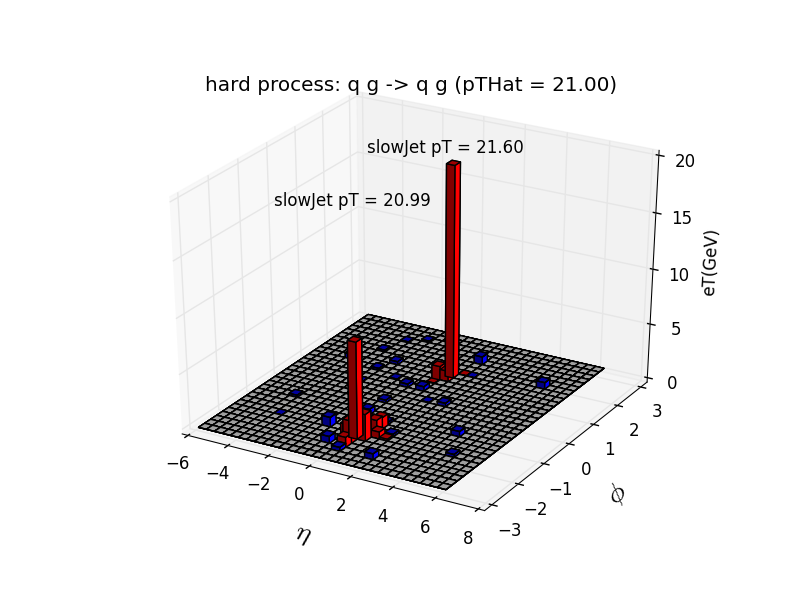
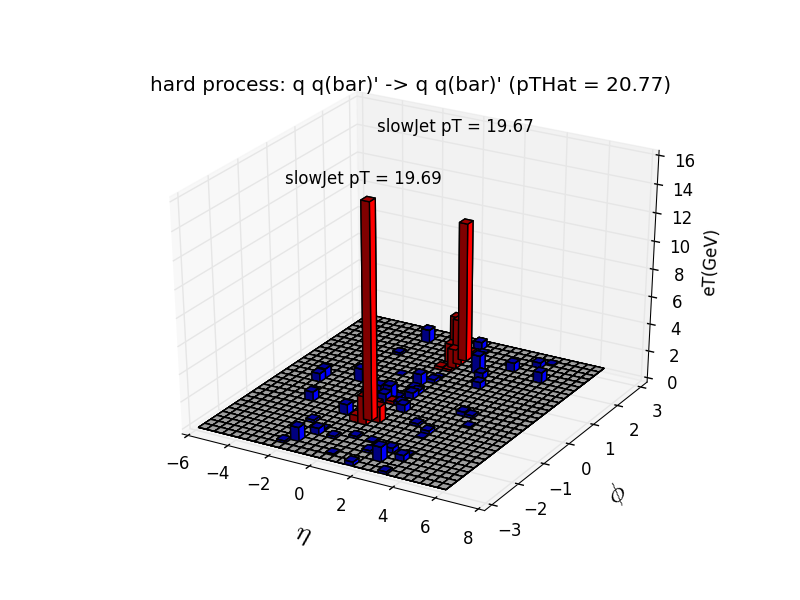
added image files to report

diff --git a/pydir/2d_hist_jetplot_wcol.py b/pydir/2d_hist_jetplot_wcol.py
@@ -13,6 +13,7 @@ def usage():
     print 'Plots a 2d histogram for pythia p-p events and identifies jets as red with slowJet.'
     print 'Usage: python 2d_hist_jetplot_wcol.py [options]'
     print '   -h, --help      : this message'
+    print '   -o, --col     : create plot without colored jets and labels'
     print '   -e, --eCM     = beam center-of-mass energy (GeV) [200.0]'
     print '   -n, --pTHatMin     = minimum jet pT [20.0]'
     print '   -m, --pTHatMax     = maximum jet pT [25.0]'
@@ -27,8 +28,8 @@ def main():
 
 #   Parse command line and set defaults (see http://docs.python.org/library/getopt.html)
     try:
-        opts, args = getopt.getopt(sys.argv[1:], 'he:n:m:s:cqp:r:b:', \
-              ['help','eCM=','pTHatMin=','pTHatMax=','seed=','QCD','QED','pTjetMin=','radius=','bins='])
+        opts, args = getopt.getopt(sys.argv[1:], 'hoe:n:m:s:cqp:r:b:', \
+              ['help','col','eCM=','pTHatMin=','pTHatMax=','seed=','QCD','QED','pTjetMin=','radius=','bins='])
     except getopt.GetoptError, err:
         print str(err) # will print something like 'option -a not recognized'
         usage()
@@ -43,6 +44,7 @@ def main():
     QED = 'off'
 
     # slowJet settings
+    col = 'on'
     radius = 0.7
     pTjetMin = 10.
 
@@ -52,6 +54,8 @@ def main():
         if o in ('-h', '--help'):
             usage()
             sys.exit()
+        elif o in ('-o', '--col'):
+            col = 'off'
         elif o in ('-e', '--eCM'):
             eCM = float(a)
         elif o in ('-n', '--pTHatMin'):
@@ -187,19 +191,34 @@ def main():
 
 #   Create an array of colors where bars associated with jet particles are red
 #   Background bars are blue and bars with no value are white
-        jet_colors=[]
-        for i in h[0:tot_bins]:
-            if i > 0:
-                jet_colors.append('b')
-            else:
-                jet_colors.append('w')
-        for i in range(len(jet_h)):
-            if jet_h[i] > 0:
-                jet_colors.append('r')
-            elif h[i] > 0:
-                jet_colors.append('b')
-            else:
-                jet_colors.append('w')
+        if col == 'on':
+            jet_colors = []
+            for i in h[0:tot_bins]:
+                if i > 0:
+                    jet_colors.append('b')
+                else:
+                    jet_colors.append('w')
+            for i in range(len(jet_h)):
+                if jet_h[i] > 0:
+                    jet_colors.append('r')
+                elif h[i] > 0:
+                    jet_colors.append('b')
+                else:
+                    jet_colors.append('w')
+        else:
+            jet_colors = []
+            for i in h[0:tot_bins]:
+                if i > 0:
+                    jet_colors.append('b')
+                else:
+                    jet_colors.append('w')
+            for i in range(len(jet_h)):
+                if jet_h[i] > 0:
+                    jet_colors.append('b')
+                elif h[i] > 0:
+                    jet_colors.append('b')
+                else:
+                    jet_colors.append('w')
 
 #   End of event loop. Statistics. Histogram. Done.
         pythia.stat();
@@ -221,10 +240,12 @@ def main():
         pythia.settings.listChanged()
         pythia.settings.list("Random:seed")
 
-        for i in range(slowJet.sizeJet()):
-            pT_jet = slowJet.pT(i)
-            pT_label = 'slowJet pT = %.2f' % pT_jet
-            ax.text(slowJet.y(i),slowJet.phi(i),max(h)+1,pT_label,horizontalalignment='center')
+        if col == 'on':
+            for i in range(slowJet.sizeJet()):
+                pT_jet = slowJet.pT(i)
+                pT_label = 'slowJet pT = %.2f' % pT_jet
+                ax.text(slowJet.y(i),slowJet.phi(i),max(h)+1,pT_label,horizontalalignment='center')
+            
         plt.show(block=False)
 
         query = raw_input("q to quit, p to save to png,  <CR> to continue: ")

diff --git a/pydir/2d_hist_trento.py b/pydir/2d_hist_trento.py
@@ -72,8 +72,6 @@ def main():
     
     T = 0.15 # temperature in GeV
     deta = 4
-    # set pion mass to 0.14 GeV
-    mpi = 0.14
     
     # rho_0 scaling parameter for radial flow
     # from Retiere and Lisa, PRC70.044907 (2004), table 2
@@ -93,7 +91,9 @@ def main():
         print "e2: ", e2[i]
         
         for j in range(mult[i]):
-            r1, r2, r3, r4 = np.random.random(4)
+            r1, r2, r3, r4, r5 = np.random.random(5)
+            while r5 > 0.99:
+                r5 = np.random.random(1)
     
             # pT = transverse momentum
             pT_r1 = T*(math.sqrt(-2*math.log(r1)))
@@ -106,9 +106,29 @@ def main():
     
             # rho = normalized radial distance 
             rho_r4 = r4**0.5
+
+            # particle selected randomly, mass in GeV
+            if r5 <= 0.11:
+                mass = 0.140 # pi+
+            if r5 > 0.11 and r5 <= 0.22:
+                mass = 0.140 # pi-
+            if r5 > 0.22 and r5 <= 0.33:
+                mass = 0.135 # pi0
+            if r5 > 0.33 and r5 <= 0.44:
+                mass = 0.494 # K+
+            if r5 > 0.44 and r5 <= 0.55:
+                mass = 0.494 # K-
+            if r5 > 0.55 and r5 <= 0.66:
+                mass = 0.938 # p
+            if r5 > 0.66 and r5 <= 0.77:
+                mass = 0.938 # pbar
+            if r5 > 0.77 and r5 <= 0.88:
+                mass = 0.940 # n
+            if r5 > 0.88 and r5 <= 0.99:
+                mass = 0.940 # nbar
     
             # calculate initial transverse rapidity (yT)
-            eT = (mpi*mpi+pT_r1*pT_r1)**0.5
+            eT = (mass*mass+pT_r1*pT_r1)**0.5
             yT = 0.5 * np.log((eT+pT_r1)/(eT-pT_r1))
             pT_initial = pT_r1
             yT_initial = yT
@@ -118,7 +138,7 @@ def main():
             yT = yT_initial + yBoost
     
             # convert back to pT
-            pT_wflow = mpi*np.cosh(yT)
+            pT_wflow = mass*np.cosh(yT)
     
             pT.append(pT_wflow)
             phi.append(phi_r2)
@@ -137,8 +157,8 @@ def main():
     
     #   Create an array of colors to color the bars
         bar_colors = []
-        for i in range(len(h)):
-            if h[i] == 0:
+        for j in range(len(h)):
+            if h[j] == 0:
                 bar_colors.append('w')
             else:
                 bar_colors.append('b')
@@ -154,8 +174,10 @@ def main():
         ax.set_xlabel('\n$\eta$',fontsize=20)
         ax.set_ylabel('\n$\phi$',fontsize=20)
         ax.set_zlabel('pT')
-    
-        plt.title('trento background')
+        
+        title = 'trento data: multiplicity = ' + str(mult[i])
+        plt.title(title)
+        
         pi = np.pi
         plt.ylim(-pi,pi)
     
@@ -168,6 +190,7 @@ def main():
             query = raw_input("name this png file (do not include extension .png): ")
             filename = query + '.png'
             plt.savefig(filename)
+            print 'file saved as', filename
             query = raw_input("q to quit, <CR> to continue: ")
             if (query=='q'):
                 break

diff --git a/doc/jetStudy_PythiaTrento.tex b/doc/jetStudy_PythiaTrento.tex
@@ -56,7 +56,7 @@ Joseph Simpson and Ron Soltz
 
 \begin{figure}[h]
 \begin{center}
-\includegraphics[width=0.99\textwidth]{pT_pythiaEvents.pdf}
+\includegraphics[width=0.9\textwidth]{pT_pythiaEvents.pdf}
 \label{fig_label}
 \caption{Distribution of jet pT for QCD and QED processes.  Figure created with [python pT_pythiaEvents.py -m 20000]}
 \end{center}
@@ -64,9 +64,9 @@ Joseph Simpson and Ron Soltz
 
 \begin{figure}[h]
 \begin{center}
-\includegraphics[width=0.9\textwidth]{2d_hist_jetplot_wcol.png}
+\includegraphics[width=0.9\textwidth]{2d_hist_jetplot.png}
 \label{fig_label}
-\caption{Pythia event display.  Figure created with [python 2d_hist_jetplot_wcol.py -b 30]}
+\caption{Pythia event display.  Figure created with [python 2d_hist_jetplot_wcol.py -o -b 30]}
 \end{center}
 \end{figure}
 
@@ -80,9 +80,9 @@ Joseph Simpson and Ron Soltz
 
 \begin{figure}[h]
 \begin{center}
-%\includegraphics[width=0.6\textwidth]{filename}
+\includegraphics[width=0.9\textwidth]{2d_hist_trento.png}
 \label{fig_label}
-\caption{Trento event display (no jets).  Figure created with [put python command here]}
+\caption{Trento event display (no jets).  Figure created with [python 2d_hist_trento.py -b 30]}
 \end{center}
 \end{figure}
 
@@ -95,25 +95,25 @@ Joseph Simpson and Ron Soltz
 
 \begin{figure}[h]
 \begin{center}
-%\includegraphics[width=0.6\textwidth]{filename}
+\includegraphics[width=0.9\textwidth]{2d_hist_jetplot_wcol.png}
 \label{fig_label}
-\caption{Event display for Pythia with SlowJet Finder.  Figure created with [put python command here]}
+\caption{Event display for Pythia with SlowJet Finder.  Figure created with [python 2d_hist_jetplot_wcol.py -b 30]}
 \end{center}
 \end{figure}
 
 \begin{figure}[h]
 \begin{center}
-%\includegraphics[width=0.6\textwidth]{filename}
+\includegraphics[width=0.9\textwidth]{pythia_slowjet_trento_hist1.png}
 \label{fig_label}
-\caption{Event display for Pythia+Trento with SlowJet Finder.  Figure created with [put python command here]}
+\caption{Event display for Pythia+Trento with SlowJet Finder.  Figure created with [python pythia_slowjet_trento_hist.py -b 30 -s 1]}
 \end{center}
 \end{figure}
 
 \begin{figure}[h]
 \begin{center}
-%\includegraphics[width=0.6\textwidth]{filename}
+\includegraphics[width=0.9\textwidth]{pythia_slowjet_trento_hist2.png}
 \label{fig_label}
-\caption{Event display for Pythia+Trento with SlowJet Finder.  Figure created with [put python command here]}
+\caption{Event display for Pythia+Trento with SlowJet Finder.  Figure created with [python pythia_slowjet_trento_hist.py -b 30 -s 1]}
 \end{center}
 \end{figure}
 
@@ -125,7 +125,7 @@ Joseph Simpson and Ron Soltz
 
 \begin{figure}[h]
 \begin{center}
-\includegraphics[width=0.99\textwidth]{compare_xi.pdf}
+\includegraphics[width=0.9\textwidth]{compare_xi.pdf}
 \label{fig_label}
 \caption{Fragmentation Function (Xi) distributions for true and reconstructed QCD and QED jets, with and without trento backgrounds.  Figure created with [python compare_xi.py]}
 \end{center}
